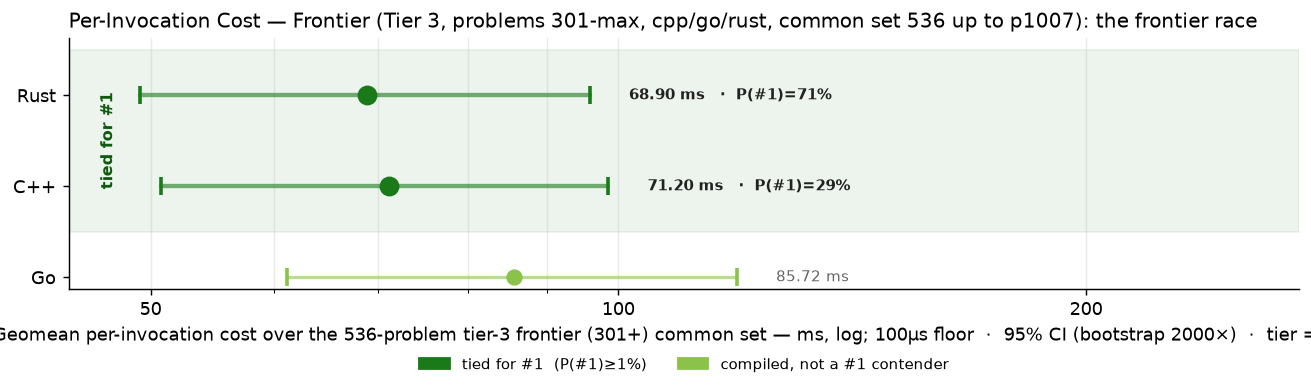
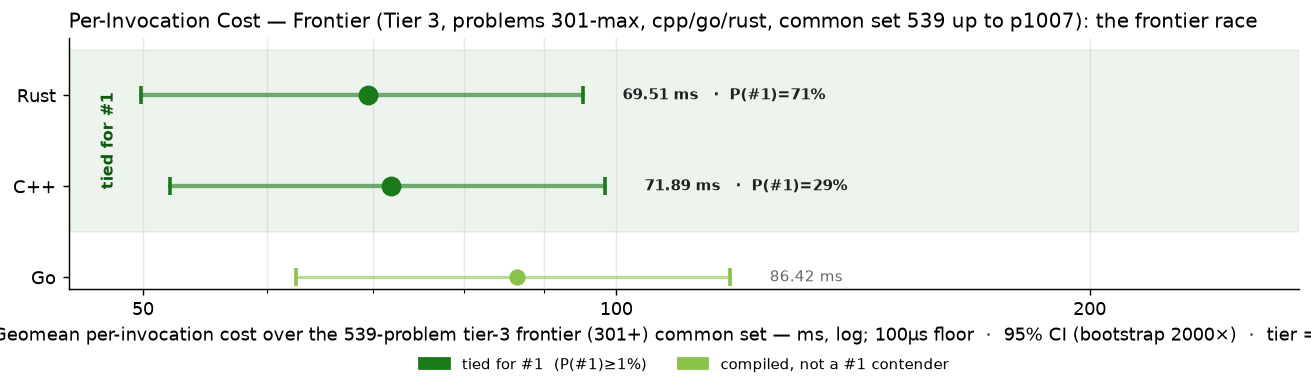
bench: p590 p685 p799 (cpp/go/rust)

diff --git a/RESULTS.md b/RESULTS.md
@@ -1,6 +1,6 @@
 # Project Euler — Cross-Language Benchmarks
 
-> **Scope: 4521 in-scope cells across 1007 problems × tiered languages — 4020 measured (88.9% coverage).**
+> **Scope: 4521 in-scope cells across 1007 problems × tiered languages — 4029 measured (89.1% coverage).**
 > The cross-language ranking below is computed over the **200-problem common set** (problems in 1-200 where every language has a passing measurement) — the apples-to-apples Foundation comparison surface.  Per-tier rankings and coverage detail appear further below.
 > Growing carefully — each new problem and language is audited for state-leak
 > safety, verified for answer correctness, and added only when it cleanly fits the
@@ -70,15 +70,15 @@ Same scatter as the Foundation chart, restricted to the tier-2 active languages 
 
 The frontier verification trio — C++, Go, Rust — on problems above 300. 3-way cross-language agreement is the verification protocol (strictly stronger than 2-way; see JOURNEY.md "Tier Reframing" episode for the p254 lesson that motivated it). Python and Zig are explicitly out of this tier — python's wall cost makes it impractical at level 5+, and zig's role caps at Tier 2.
 
-### Per-Invocation Cost (Common Set, 536 of ≤707 problems in scope)
+### Per-Invocation Cost (Common Set, 539 of ≤707 problems in scope)
 
 ![Per-Invocation Cost — Tier 3](charts/per_iter_total_tier3.png)
 
-| Rank | Language | Geomean (536-problem common set) | Total (sum) | Lines of code | vs Fastest |
+| Rank | Language | Geomean (539-problem common set) | Total (sum) | Lines of code | vs Fastest |
 |------|----------|--------------------:|------------:|--------------:|-----------:|
-| 1 | **Rust** | 68.90 ms | 1554.87 s | 91,443 | 1.00× |
-| 2 | **C++** | 71.20 ms | 1662.80 s | 71,347 | 1.03× |
-| 3 | **Go** | 85.72 ms | 1919.36 s | 89,037 | 1.24× |
+| 1 | **Rust** | 69.51 ms | 1560.84 s | 92,521 | 1.00× |
+| 2 | **C++** | 71.89 ms | 1670.28 s | 72,094 | 1.03× |
+| 3 | **Go** | 86.42 ms | 1934.89 s | 90,252 | 1.24× |
 
 ### Speed vs Code Size
 

diff --git a/per_problem/per_problem_0701-0800.md b/per_problem/per_problem_0701-0800.md
@@ -106,7 +106,7 @@ in tier-1 display order (native → managed → interpreted).
 | **p0796** | 8.1 µs | 17.5 µs | 2.54 ms |
 | **p0797** | 754.76 ms | 858.98 ms | 837.77 ms |
 | **p0798** | — | — | — |
-| **p0799** | — | — | — |
+| **p0799** | 7.26 s | 5.67 s | 15.28 s |
 | **p0800** | 88.48 ms | 51.46 ms | 44.34 ms |
 
 > ✗ — *process-contract failure* (METHODOLOGY.md §2): the row is recorded as a failure with its reason class (untimed-work / parallel-execution) — there is no path by which a contract-breaking measurement appears as a fast time.

diff --git a/per_problem/per_problem_0601-0700.md b/per_problem/per_problem_0601-0700.md
@@ -92,7 +92,7 @@ in tier-1 display order (native → managed → interpreted).
 | **p0682** | 333.66 ms | 313.25 ms | 663.47 ms |
 | **p0683** | 1.23 s | 1.38 s | 3.67 s |
 | **p0684** | 46.9 µs | 21.4 µs | 13.3 µs~ |
-| **p0685** | — | — | — |
+| **p0685** | 56.98 ms | 25.05 ms | 14.25 ms |
 | **p0686** | ✗ fail | — | — |
 | **p0687** | 48.07 ms | 1.13 ms | 1.34 ms |
 | **p0688** | 884.68 ms | 926.39 ms | 1.12 s |

diff --git a/per_problem/per_problem_0501-0600.md b/per_problem/per_problem_0501-0600.md
@@ -97,7 +97,7 @@ in tier-1 display order (native → managed → interpreted).
 | **p0587** | 26.9 µs | 24.2 µs~ | 44.2 µs |
 | **p0588** | 675.55 ms | 226.8 µs | 160.8 µs |
 | **p0589** | — | — | — |
-| **p0590** | — | — | — |
+| **p0590** | 157.26 ms | 276.84 ms | 234.72 ms |
 | **p0591** | — | — | — |
 | **p0592** | 45.35 ms | 1.18 s† | 77.42 ms |
 | **p0593** | 1.80 s | 2.15 s | 2.44 s |
